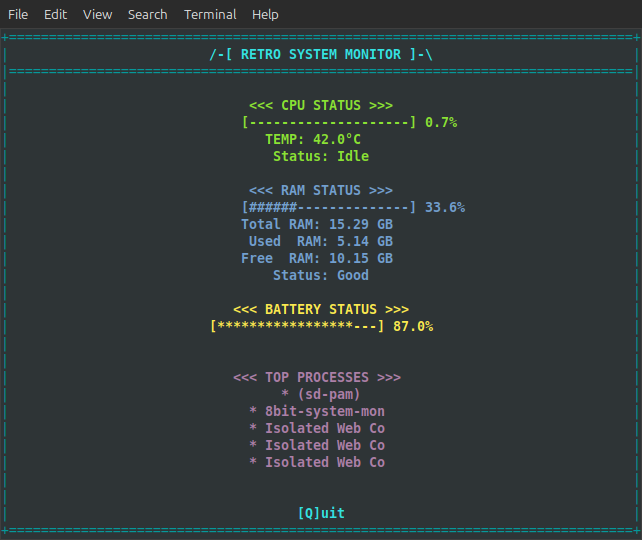
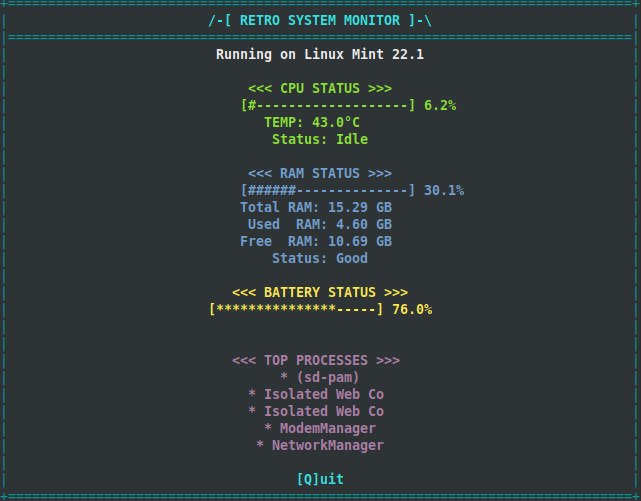
Update README

Changed region(s): [[0.0, 0.0, 0.9984, 1.0], [0.312, 0.3293, 0.7176, 0.6287], [0.3432, 0.6886, 0.624, 0.8982]]

diff --git a/README.md b/README.md
@@ -22,6 +22,7 @@ A Linux system monitor with a retro design!
   - Temperature monitoring
   - Battery level (if present)
   - Active processes
+  - Distro name and version
 
 - **Retro-Style UI**
   - ASCII art borders and decorations
@@ -36,7 +37,12 @@ A Linux system monitor with a retro design!
   - Smart error handling and system calls
 
 - **System Integration**
-  - Direct Linux system stats reading (`/proc`, `/sys`)
+  - Direct Linux system stats reading:
+    - `/proc/stat` for CPU usage
+    - `/proc/meminfo` for RAM stats
+    - `/sys/class/thermal/thermal_zone0/temp` for CPU temperature
+    - `/sys/class/power_supply/BAT0/*` for battery info
+    - `/etc/os-release` for distribution info
   - Real-time process monitoring
   - Hardware status tracking (CPU, RAM, Battery)
 
